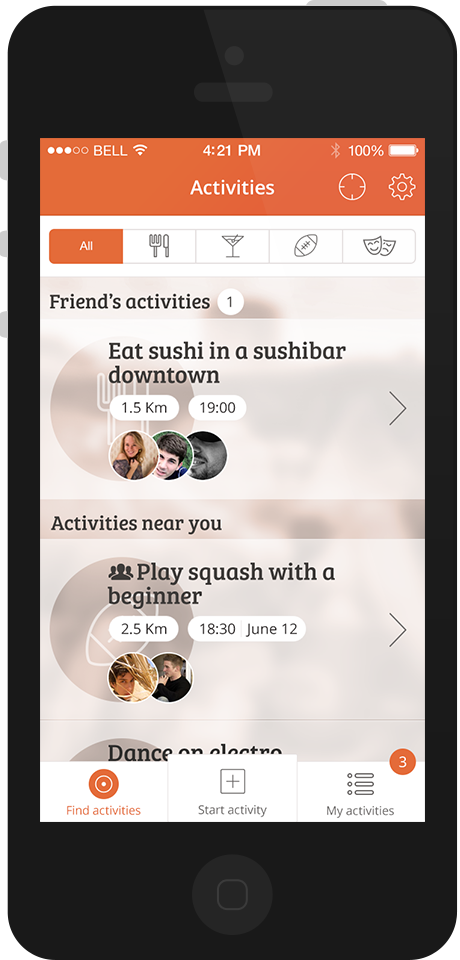
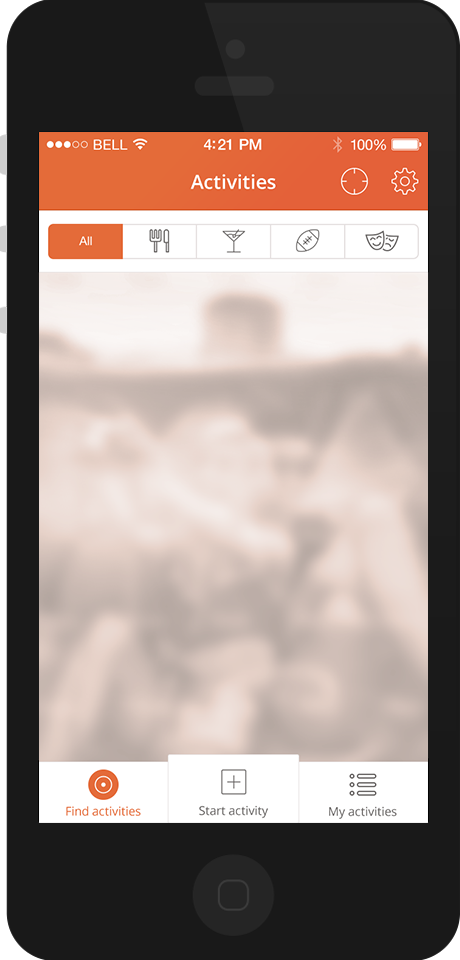
parallax phone content

diff --git a/js/main.js b/js/main.js
@@ -1,0 +1,38 @@
+$(window).load(mobilecheck);
+
+    /**
+    * Check mobile browser to disable some features.
+    **/
+    function mobilecheck() {
+        var check = false;
+        (function(a){if(/(android|ipad|playbook|silk|bb\d+|meego).+mobile|avantgo|bada\/|blackberry|blazer|compal|elaine|fennec|hiptop|iemobile|ip(hone|od)|iris|kindle|lge |maemo|midp|mmp|netfront|opera m(ob|in)i|palm( os)?|phone|p(ixi|re)\/|plucker|pocket|psp|series(4|6)0|symbian|treo|up\.(browser|link)|vodafone|wap|windows (ce|phone)|xda|xiino/i.test(a)||/1207|6310|6590|3gso|4thp|50[1-6]i|770s|802s|a wa|abac|ac(er|oo|s\-)|ai(ko|rn)|al(av|ca|co)|amoi|an(ex|ny|yw)|aptu|ar(ch|go)|as(te|us)|attw|au(di|\-m|r |s )|avan|be(ck|ll|nq)|bi(lb|rd)|bl(ac|az)|br(e|v)w|bumb|bw\-(n|u)|c55\/|capi|ccwa|cdm\-|cell|chtm|cldc|cmd\-|co(mp|nd)|craw|da(it|ll|ng)|dbte|dc\-s|devi|dica|dmob|do(c|p)o|ds(12|\-d)|el(49|ai)|em(l2|ul)|er(ic|k0)|esl8|ez([4-7]0|os|wa|ze)|fetc|fly(\-|_)|g1 u|g560|gene|gf\-5|g\-mo|go(\.w|od)|gr(ad|un)|haie|hcit|hd\-(m|p|t)|hei\-|hi(pt|ta)|hp( i|ip)|hs\-c|ht(c(\-| |_|a|g|p|s|t)|tp)|hu(aw|tc)|i\-(20|go|ma)|i230|iac( |\-|\/)|ibro|idea|ig01|ikom|im1k|inno|ipaq|iris|ja(t|v)a|jbro|jemu|jigs|kddi|keji|kgt( |\/)|klon|kpt |kwc\-|kyo(c|k)|le(no|xi)|lg( g|\/(k|l|u)|50|54|\-[a-w])|libw|lynx|m1\-w|m3ga|m50\/|ma(te|ui|xo)|mc(01|21|ca)|m\-cr|me(rc|ri)|mi(o8|oa|ts)|mmef|mo(01|02|bi|de|do|t(\-| |o|v)|zz)|mt(50|p1|v )|mwbp|mywa|n10[0-2]|n20[2-3]|n30(0|2)|n50(0|2|5)|n7(0(0|1)|10)|ne((c|m)\-|on|tf|wf|wg|wt)|nok(6|i)|nzph|o2im|op(ti|wv)|oran|owg1|p800|pan(a|d|t)|pdxg|pg(13|\-([1-8]|c))|phil|pire|pl(ay|uc)|pn\-2|po(ck|rt|se)|prox|psio|pt\-g|qa\-a|qc(07|12|21|32|60|\-[2-7]|i\-)|qtek|r380|r600|raks|rim9|ro(ve|zo)|s55\/|sa(ge|ma|mm|ms|ny|va)|sc(01|h\-|oo|p\-)|sdk\/|se(c(\-|0|1)|47|mc|nd|ri)|sgh\-|shar|sie(\-|m)|sk\-0|sl(45|id)|sm(al|ar|b3|it|t5)|so(ft|ny)|sp(01|h\-|v\-|v )|sy(01|mb)|t2(18|50)|t6(00|10|18)|ta(gt|lk)|tcl\-|tdg\-|tel(i|m)|tim\-|t\-mo|to(pl|sh)|ts(70|m\-|m3|m5)|tx\-9|up(\.b|g1|si)|utst|v400|v750|veri|vi(rg|te)|vk(40|5[0-3]|\-v)|vm40|voda|vulc|vx(52|53|60|61|70|80|81|83|85|98)|w3c(\-| )|webc|whit|wi(g |nc|nw)|wmlb|wonu|x700|yas\-|your|zeto|zte\-/i.test(a.substr(0,4)))check = true})(navigator.userAgent||navigator.vendor||window.opera);
+        return check;
+    }
+
+$(document).ready(function(){
+    
+    // Script for the animated header
+    var $head = $( '#ha-nav' );
+    
+    $( '.ha-waypoint' ).each( function(i) {
+        var $el = $( this ),
+            animClassDown = $el.data( 'animateDown' ),
+            animClassUp = $el.data( 'animateUp' );
+
+        $el.waypoint( function( direction ) {
+            if( direction === 'down' && animClassDown ) {
+                $head.attr('class', 'ha-header ' + animClassDown);
+            }
+            else if( direction === 'up' && animClassUp ){
+                $head.attr('class', 'ha-header ' + animClassUp);
+            }
+        }, { offset: '100%' } );
+    } );
+});
+
+$(window).scroll(function() {
+    if (!mobilecheck()) {
+        $(".header-phone-screen").stop().css({"background-position-y": -($(document).scrollTop()/3) + "px"});
+    }
+
+});

diff --git a/_layouts/default.html b/_layouts/default.html
@@ -54,7 +54,6 @@
 	{% endfor %}
 	</head>
 	<body>
-		<h1>Clickin</h1>
 		<!--HEADER-->
 			<nav id="ha-nav" class="wrapper ha-header-large">
 				<div class="logo"></div>
@@ -77,22 +76,6 @@
 		<script type="text/javascript" src="/js/lib/jquery-2.1.0.min.js"></script>
 		<script type="text/javascript" src="js/lib/modernizr.custom.js"></script>
 		<script type="text/javascript" src="js/lib/waypoints.min.js"></script>
-		<script>
-			var $head = $( '#ha-nav' );
-			$( '.ha-waypoint' ).each( function(i) {
-				var $el = $( this ),
-					animClassDown = $el.data( 'animateDown' ),
-					animClassUp = $el.data( 'animateUp' );
-
-				$el.waypoint( function( direction ) {
-					if( direction === 'down' && animClassDown ) {
-						$head.attr('class', 'ha-header ' + animClassDown);
-					}
-					else if( direction === 'up' && animClassUp ){
-						$head.attr('class', 'ha-header ' + animClassUp);
-					}
-				}, { offset: '100%' } );
-			} );
-		</script>
+		<script type="text/javascript" src="js/main.js"></script>
 	</body>
 </html>

diff --git a/css/home.sass b/css/home.sass
@@ -20,10 +20,26 @@ header
         display: inline-block
         position: absolute
         top: 60px
-        left: calc(50% - 115px)
+        left: calc(50% - 118px)
         background-image: $header-phone-image
         background-size: 100%
         background-repeat: no-repeat
+        z-index: 98
+
+    .header-phone-screen
+        width: 194px
+        height: 244px
+        display: inline-block
+        position: absolute
+        top: 196px
+        left: calc(50% - 98px)
+        background-image: $header-phone-content-image
+        background-size: 100%
+        background-position-x: center
+        background-position-y: 0
+        background-repeat: no-repeat
+        overflow: hidden
+        z-index: 99
 
     .header-payoff
         width: 360px

diff --git a/css/includes.sass b/css/includes.sass
@@ -23,3 +23,4 @@ $icon-down: url('../images/svg/icon-down.svg')
 $header-image: url('../images/header-bg.jpg')
 
 $header-phone-image: url('../images/header-phone.png')
+$header-phone-content-image: url('../images/header-phone-content.png')

diff --git a/index.html b/index.html
@@ -5,6 +5,7 @@ css: home.css
 ---
 
 <header class="wrapper animated scale-bg">
+	<div class="header-phone-screen"></div>
 	<div class="header-phone"></div>
 	<h1 class="header-payoff">
 		<span>An app</span>
